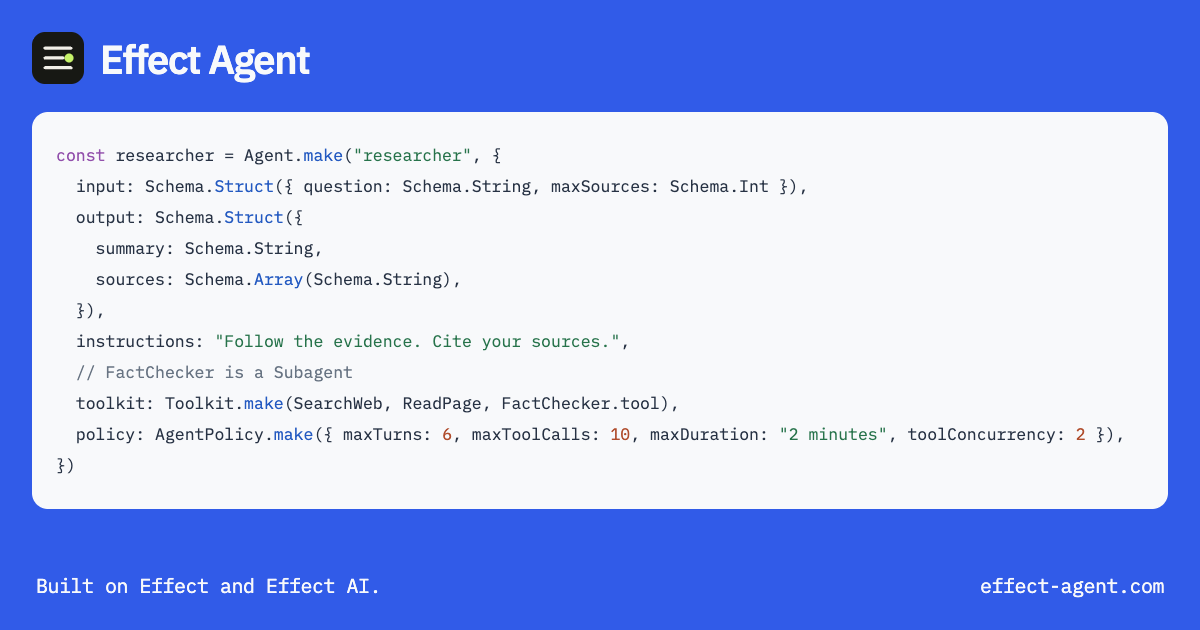
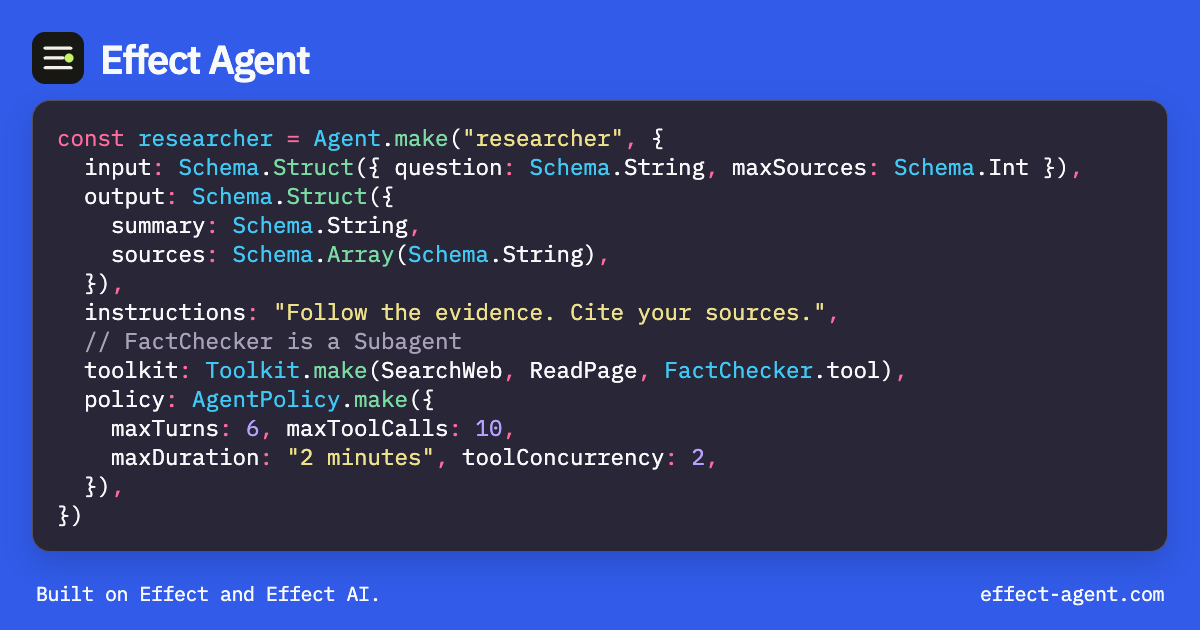
docs: enlarge and brighten the social card code

diff --git a/docs/.vitepress/assets/social-card.html b/docs/.vitepress/assets/social-card.html
@@ -39,41 +39,48 @@
 
       pre {
         position: absolute;
-        top: 112px;
+        top: 100px;
         right: 32px;
         left: 32px;
         margin: 0;
-        border-radius: 16px;
-        padding: 28px 24px;
-        background: #f8f9fb;
-        color: #273244;
+        border: 1px solid #ffffff30;
+        border-radius: 18px;
+        padding: 22px 24px;
+        background: #292638;
+        box-shadow: 0 12px 28px #12246540;
+        color: #f8f9fb;
         font-family: "IBM Plex Mono", monospace;
-        font-size: 16.5px;
-        line-height: 31px;
+        font-size: 22.5px;
+        line-height: 29px;
       }
 
       code {
         font: inherit;
       }
 
-      .keyword {
-        color: #9250ac;
+      .keyword,
+      .punctuation {
+        color: #ff6b9d;
+      }
+
+      .namespace {
+        color: #40c9f5;
       }
 
       .call {
-        color: #245ac1;
+        color: #7bdca3;
       }
 
       .string {
-        color: #27734b;
+        color: #eee18b;
       }
 
       .number {
-        color: #b04d2d;
+        color: #b7a1ff;
       }
 
       .comment {
-        color: #687483;
+        color: #a8a1b8;
       }
 
       .mark {
@@ -87,7 +94,7 @@
       footer {
         position: absolute;
         right: 36px;
-        bottom: 32px;
+        bottom: 24px;
         left: 36px;
         display: flex;
         justify-content: space-between;
@@ -101,16 +108,19 @@
     <main>
       <h1>Effect Agent</h1>
       <img class="mark" src="../../public/mark.svg" alt="" />
-      <pre><code><span class="keyword">const</span> researcher = Agent.<span class="call">make</span>(<span class="string">"researcher"</span>, {
-  input: Schema.<span class="call">Struct</span>({ question: Schema.String, maxSources: Schema.Int }),
-  output: Schema.<span class="call">Struct</span>({
-    summary: Schema.String,
-    sources: Schema.<span class="call">Array</span>(Schema.String),
-  }),
-  instructions: <span class="string">"Follow the evidence. Cite your sources."</span>,
+      <pre><code><span class="keyword">const</span> <span class="namespace">researcher</span> <span class="punctuation">=</span> <span class="namespace">Agent</span>.<span class="call">make</span>(<span class="string">"researcher"</span><span class="punctuation">,</span> {
+  input<span class="punctuation">:</span> <span class="namespace">Schema</span>.<span class="call">Struct</span>({ question<span class="punctuation">:</span> <span class="namespace">Schema</span>.String<span class="punctuation">,</span> maxSources<span class="punctuation">:</span> <span class="namespace">Schema</span>.Int })<span class="punctuation">,</span>
+  output<span class="punctuation">:</span> <span class="namespace">Schema</span>.<span class="call">Struct</span>({
+    summary<span class="punctuation">:</span> <span class="namespace">Schema</span>.String<span class="punctuation">,</span>
+    sources<span class="punctuation">:</span> <span class="namespace">Schema</span>.<span class="call">Array</span>(<span class="namespace">Schema</span>.String)<span class="punctuation">,</span>
+  })<span class="punctuation">,</span>
+  instructions<span class="punctuation">:</span> <span class="string">"Follow the evidence. Cite your sources."</span><span class="punctuation">,</span>
   <span class="comment">// FactChecker is a Subagent</span>
-  toolkit: Toolkit.<span class="call">make</span>(SearchWeb, ReadPage, FactChecker.tool),
-  policy: AgentPolicy.<span class="call">make</span>({ maxTurns: <span class="number">6</span>, maxToolCalls: <span class="number">10</span>, maxDuration: <span class="string">"2 minutes"</span>, toolConcurrency: <span class="number">2</span> }),
+  toolkit<span class="punctuation">:</span> <span class="namespace">Toolkit</span>.<span class="call">make</span>(SearchWeb<span class="punctuation">,</span> ReadPage<span class="punctuation">,</span> <span class="namespace">FactChecker</span>.tool)<span class="punctuation">,</span>
+  policy<span class="punctuation">:</span> <span class="namespace">AgentPolicy</span>.<span class="call">make</span>({
+    maxTurns<span class="punctuation">:</span> <span class="number">6</span><span class="punctuation">,</span> maxToolCalls<span class="punctuation">:</span> <span class="number">10</span><span class="punctuation">,</span>
+    maxDuration<span class="punctuation">:</span> <span class="string">"2 minutes"</span><span class="punctuation">,</span> toolConcurrency<span class="punctuation">:</span> <span class="number">2</span><span class="punctuation">,</span>
+  })<span class="punctuation">,</span>
 })</code></pre>
       <footer>
         <span>Built on Effect and Effect AI.</span>
